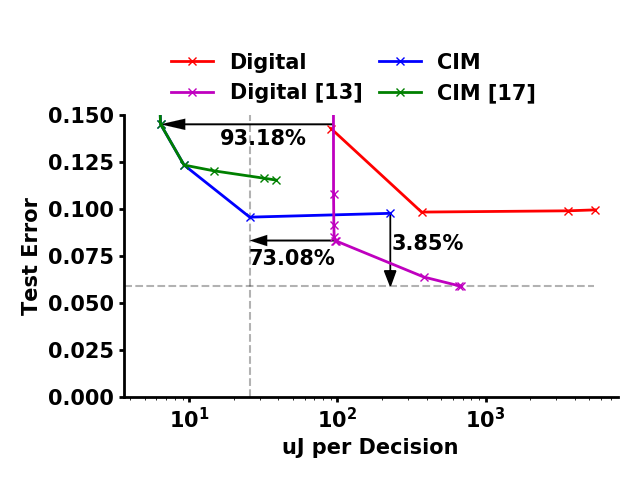
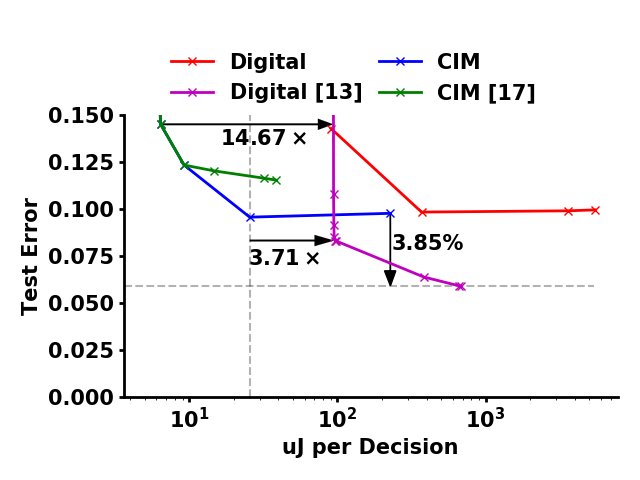
noise able

Changed region(s): [[0.375, 0.4688, 0.5312, 0.5625], [0.3438, 0.25, 0.5312, 0.3125], [0.25, 0.25, 0.3125, 0.2812]]

diff --git a/plots/ISCAS_paper_figs.py b/plots/ISCAS_paper_figs.py
@@ -154,13 +154,13 @@ axes.annotate("3.85%", xy=(230.7869391039999, 0.0783833333333333))
 
 
 
-axes.arrow(95, 0.08319999999999994, -69.43018964800001, 0, length_includes_head=True, head_width=.006, head_length=8,color= 'k', linewidth = .05)
-axes.annotate("73.08%", xy=(25, .07))
+axes.arrow(95, 0.08319999999999994, -69.43018964800001, 0, length_includes_head=True, head_width=.006, head_length=8,color= 'k', linewidth = .05, arrowprops=dict(arrowstyle='<-'))
+axes.annotate(r'$3.71\times$', xy=(25, .07))
 
 
 
-axes.arrow(min(arm_xcim0), .145, -(min(arm_xcim0) - xcim0_p[1]), 0, length_includes_head=True, head_width=.006, head_length=3,color= 'k', linewidth  = .05)
-axes.annotate("93.18%", xy=(16, .134))
+axes.arrow(min(arm_xcim0), .145, -(min(arm_xcim0) - xcim0_p[1]), 0, length_includes_head=True, head_width=.006, head_length=3,color= 'k', linewidth  = .05, arrowprops=dict(arrowstyle='<-'))
+axes.annotate(r'$14.67\times$', xy=(16, .134))
 
 axes.set_ylim(0 , 1 - .85) 
 axes.set_xlabel('uJ per Decision')

diff --git a/model_noise_test.py b/model_noise_test.py
@@ -135,7 +135,6 @@ def w_init(fp, wb):
 class CustomMM_bmm(torch.autograd.Function):
     @staticmethod
     def forward(ctx, input, weight, bias, nl, wb, bias_r, w_noise, act_noise):
-        import pdb; pdb.set_trace()
 
         #noise_w = torch.randn(weight.shape, device = input.device) * weight.max() * nl
         #bias_w  = torch.randn(bias.shape, device = bias.device) * bias.max() * nl
